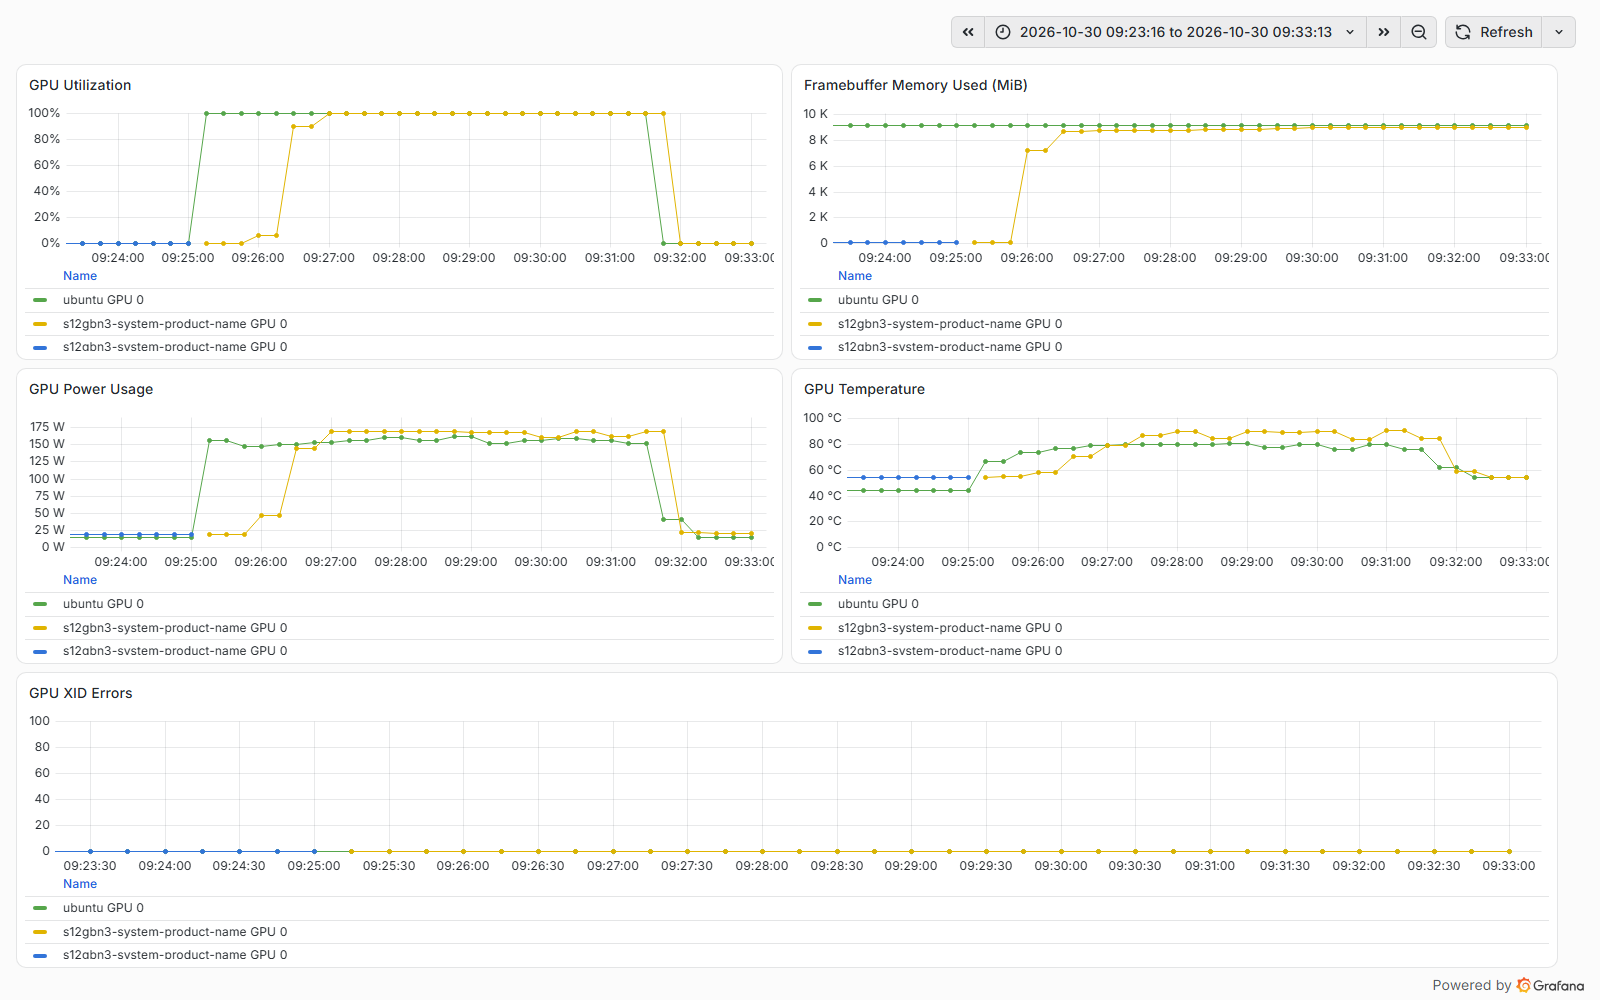
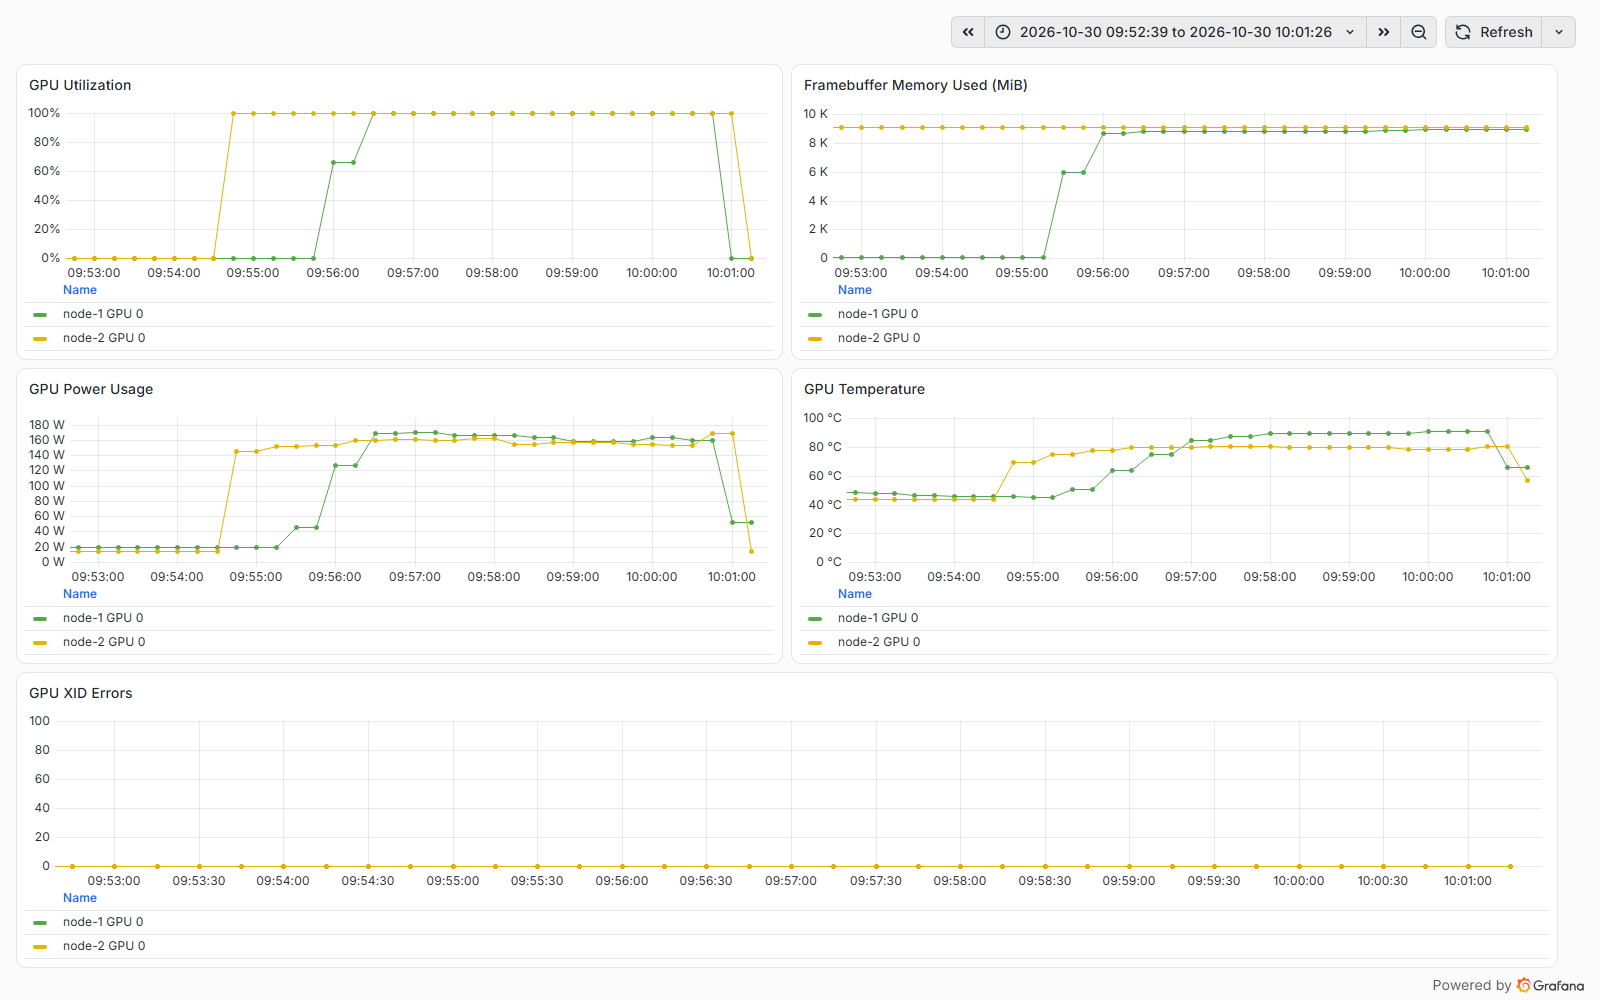
docs: chạy lại thực nghiệm 100 request với 4 API key, ẩn hostname/IP trong sơ đồ
Lần trước dùng 1 key nên phần lớn thời gian bị rate limit 429. Lần này chia tải cho
4 key, chờ 2 s khi gặp 429: 2.440/2.440 request thành công. Cập nhật mục 5 README
và 4 ảnh dashboard; legend dashboard GPU và sơ đồ kiến trúc chỉ còn node-1/node-2.

diff --git a/README.md b/README.md
@@ -117,52 +117,45 @@ Với SLO TTFT p95 ≤ 2 s, một replica giữ được 6 request song song. Ng
 
 ### 5.1. Cách làm
 
-- Ngày 30/10, 09:24:46–09:31:13. Bắt đầu từ 1 replica (node-2).
-- 100 luồng chạy trên node-1, mỗi luồng gửi liên tục `POST /v1/chat/completions` qua gateway, prompt ngắn (~20 token), `max_tokens 256`, mỗi request một kết nối mới. Tất cả dùng chung một API key.
-- Ảnh chụp từ Grafana, khung thời gian 09:23:16–09:33:13.
+- Ngày 30/10, 09:54:09–10:00:26. Bắt đầu từ 1 replica (node-2).
+- 100 luồng chạy trên node-1, mỗi luồng gửi liên tục `POST /v1/chat/completions` qua gateway: prompt ngắn (48 token sau chat template), `max_tokens 256`, mỗi request một kết nối mới.
+- Tải chia cho 4 API key, 25 luồng mỗi key. Một key chỉ có 100k token/phút, trong khi 2 replica xử lý tới ~140k token/phút; lần chạy trước dùng 1 key nên phần lớn thời gian bị gateway trả 429. Luồng nhận 429 thì chờ 2 s rồi gửi lại.
+- Ảnh chụp từ Grafana, khung thời gian 09:52:39–10:01:26.
 
 ### 5.2. Kết quả
 
 | Chỉ số | Giá trị |
 |---|---|
-| Request thành công (200) | 2.373 |
-| Bị rate limit (429) | 82.900 |
-| Lỗi kết nối phía client (curl `000`) | 10.029 |
-| KEDA quyết định lên 2 replica | 09:25:02, 16 s sau khi có tải |
-| Pod thứ 2 Ready | ~09:26:15, khoảng 1 phút 30 s sau quyết định scale |
-| Throughput sinh token đỉnh | ~1.600 tok/s (2 replica) |
-| TTFT p95 | ~4,6 s khi 1 replica; giảm dần còn ~1,5 s sau khi có 2 replica và tải giảm |
-
-Con số 429 và lỗi kết nối không phải lỗi của hệ thống mà do cách bắn tải:
-
-- 2 replica sinh ~1.600 tok/s, tức ~96k token đầu ra mỗi phút, cộng token đầu vào thì vượt hạn mức 100k token/phút của một key. Từ 09:27:57 gateway bắt đầu trả 429, đúng như cấu hình.
-- Vòng lặp tải không có backoff: nhận 429 là gửi lại ngay, nên số request bị chặn lên tới ~300 req/s. Lỗi `000` xuất hiện cùng lúc, nhiều khả năng do hết cổng TCP tạm phía máy bắn tải (mỗi request mở một kết nối mới); chưa kiểm chứng.
-
-Để đo sức chứa thật cần chia tải cho nhiều key hoặc dùng key có hạn mức riêng cho load test.
+| Request thành công | 2.440 / 2.440 (không có 429, không lỗi kết nối) |
+| KEDA quyết định lên 2 replica | 09:54:40, ~30 s sau khi có tải |
+| Pod thứ 2 Ready | 09:55:58, 1 phút 18 s sau quyết định scale |
+| Thời gian mỗi request (256 token) | p50 15,3 s · p95 26,7 s · max 33,4 s |
+| Throughput sinh token đỉnh | ~1.750 tok/s (2 replica) |
+| TTFT p95 | ~4,7 s khi 1 replica, giảm dần sau khi có 2 replica |
 
 ### 5.3. Autoscaling Overview
 
 ![Autoscaling Overview](docs/images/grafana-autoscaling-overview.png)
 
-- Concurrency lên ~100 ngay khi bắt đầu. Pod `6kxm7` (node-2) một mình chạy 95–100 request, KV cache chạm 99% và có tới 20 request phải chờ.
-- Pod `9qtps` (node-1) Ready lúc ~09:26:15 nhưng nhận tải chậm: 3 phút đầu chỉ 5–30 request, trong khi pod cũ vẫn 70–90. Đến ~09:29 hai pod mới cân bằng (~50 mỗi bên). Lý do: các kết nối Envoy → vLLM đang phục vụ request dài thì không đóng, nên chỉ khi chúng kết thúc thì kết nối mới mới có cơ hội rơi vào pod mới. Ở tải 4 hoặc 30 request, hiện tượng này gần như không thấy.
-- Sau khi có pod thứ 2, không còn request phải chờ.
+- Concurrency giữ ~100 suốt bài test. Trong 1 phút 50 s đầu, pod `6kxm7` (node-2) một mình chạy 65–100 request, KV cache chạm 99% và có lúc 29 request phải chờ.
+- Pod `r92d8` (node-1) Ready lúc 09:55:58. Sau đó không còn request phải chờ.
+- Tải chia không đều: pod mới tăng dần từ 0 lên ~40 request, pod cũ giảm từ ~80 xuống ~60, tức khoảng 40/60 sau 4 phút. Kết nối Envoy → vLLM đang phục vụ request dài (15–30 s) thì chưa đóng, nên phải chờ chúng kết thúc thì kết nối mới mới có cơ hội rơi vào pod mới. Với tải 30 request trước đó, hai pod chia 50/50 gần như ngay lập tức.
 
 ### 5.4. LLM Serving Overview
 
 ![LLM Serving Overview](docs/images/grafana-llm-serving-overview.png)
 
-- TTFT p95 tăng lên ~4,6 s trong lúc chỉ có 1 replica, vượt SLO 2 s. Đây là khoảng trống khi chờ pod mới (~1,5 phút) cộng thời gian pod mới bắt đầu nhận tải.
-- Inter-token latency p95 lên ~120 ms khi 100 request cùng decode trên 1 GPU, về ~75 ms khi tải chia ra.
-- Throughput tăng dần tới ~1.600 tok/s. Đường này là trung bình trượt 5 phút nên tăng chậm hơn thực tế.
+- TTFT p95 lên ~4,7 s khi chỉ có 1 replica, vượt SLO 2 s. Đây là khoảng chờ pod mới (~1,3 phút) cộng thời gian pod mới bắt đầu nhận tải. Đường TTFT là phân vị trên cửa sổ trượt nên giảm chậm hơn thực tế.
+- Inter-token latency p95 ~120 ms khi 100 request cùng decode trên 1 GPU, về ~90 ms khi chia cho 2 GPU.
+- Throughput tăng tới ~1.750 tok/s (trung bình trượt 5 phút).
 
 ### 5.5. GPU Overview
 
 ![GPU Overview](docs/images/grafana-gpu-overview.png)
 
-- `GPU_UTIL` lên 100% ngay khi có tải và giữ nguyên dù số request trên mỗi GPU thay đổi từ 30 tới 100. Đây là lý do không dùng metric này để scale.
-- Công suất 150–170 W mỗi GPU khi có tải, ~15–20 W khi rảnh.
-- Nhiệt độ GPU node-1 lên ~88 °C, node-2 ~80 °C.
+- `GPU_UTIL` lên 100% ngay khi có tải và giữ nguyên, dù số request trên mỗi GPU thay đổi từ 20 tới 100. Đây là lý do không dùng metric này để scale.
+- Công suất 150–170 W mỗi GPU khi có tải, 15–20 W khi rảnh.
+- Nhiệt độ GPU node-1 lên ~90 °C, node-2 ~80 °C.
 - VRAM ~9 GB mỗi GPU, không đổi theo tải vì vLLM cấp phát trước.
 - Không có lỗi XID.
 
@@ -170,9 +163,9 @@ Con số 429 và lỗi kết nối không phải lỗi của hệ thống mà do
 
 ![Gateway Overview](docs/images/grafana-gateway-overview.png)
 
-- Trước 09:28 gần như toàn bộ request là 2xx, nhưng số request/giây thấp vì mỗi request mất vài chục giây (p95 30–47 s, chủ yếu là thời gian sinh 256 token khi GPU bận).
-- Từ 09:28, 4xx (429) và rate-limit events tăng dần tới ~300–400/s, cho thấy rate limit theo token hoạt động. Độ trễ p95 tụt về gần 0 vì phần lớn request bị chặn ngay tại gateway.
-- Không có 5xx.
+- Toàn bộ response là 2xx; không có 4xx, 5xx hay rate-limit event.
+- Độ trễ p95 tại gateway ~28–30 s, gần bằng thời gian sinh 256 token khi GPU bận. Đỉnh ~47 s lúc chỉ có 1 replica.
+- Request rate hiển thị tăng dần tới ~7 req/s vì là trung bình trượt 5 phút.
 
 ## 6. Tài liệu liên quan
 
